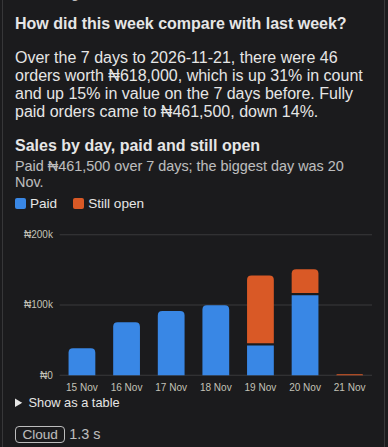
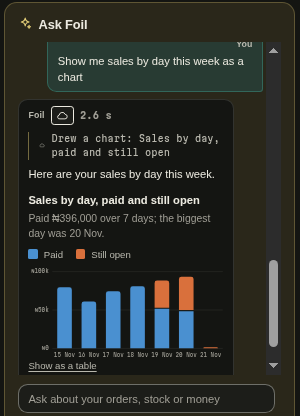
Check amounts in Ask Foil answers against the records
- An amount written wrongly for the market is put back when dropping
  one stray digit or fixing its grouping gives exactly one amount
  from the records; well-formed and ambiguous amounts stay as written
- Retake the cloud chart screenshot and update its caption

diff --git a/src/ledger/snapshot.ts b/src/ledger/snapshot.ts
@@ -2,7 +2,8 @@ import { shopWords } from '../config/marketWords'
 import { itemState } from '../capture/drop'
 import { deliveryOptions, type ShopRules } from '../capture/shopRules'
 import { leftOf } from '../capture/stock'
-import { formatMoney } from '../verify/money'
+import { market, type Market } from '../config/market'
+import { formatMoney, parseMoney } from '../verify/money'
 import type { Credit } from '../verify/types'
 import { balanceKobo, dueKobo } from './ledger'
 import type { ChatNote, Drop, Order, Product, Settlement } from './types'
@@ -250,6 +251,71 @@ export function deviceAskPrompt(
   ].join('\n\n')
   // Too long for the device: the caller asks the cloud instead.
   return prompt.length > DEVICE_ASK_MAX_CHARS ? null : prompt
+}
+
+// The amounts written in a text, with where each number starts and ends.
+function amountsIn(
+  text: string,
+  m: Market,
+): { start: number; end: number; number: string; kobo: number | null }[] {
+  const symbol = m.currency.symbol.replace(/[.*+?^${}()|[\]\\]/g, '\\$&')
+  const re = new RegExp(`${symbol}\\s?(\\d[\\d.,]*\\d|\\d)`, 'g')
+  return [...text.matchAll(re)].map((hit) => {
+    const number = hit[1]!
+    const end = hit.index + hit[0].length
+    return {
+      start: end - number.length,
+      end,
+      number,
+      kobo: parseMoney(`${m.currency.symbol}${number}`, m),
+    }
+  })
+}
+
+// Small models sometimes slip a digit when copying an amount ("₦396,000"
+// written "₦396,0000"). An amount whose digits are grouped wrongly for the
+// market, and which becomes exactly one amount from the records the model was
+// given once a single stray digit is dropped or its grouping is fixed, is
+// put back as that amount.
+// Well-formed amounts are left alone, since the model may have worked them
+// out itself, and nothing is changed without one clear match.
+export function repairAmounts(
+  answer: string,
+  records: string,
+  m: Market = market(),
+): string {
+  const known = new Map<string, number>()
+  for (const a of amountsIn(records, m)) {
+    if (a.kobo !== null && a.kobo % 100 === 0) {
+      known.set(String(a.kobo / 100), a.kobo)
+    }
+  }
+  let out = ''
+  let from = 0
+  for (const a of amountsIn(answer, m)) {
+    const wellFormed =
+      a.kobo !== null &&
+      formatMoney(a.kobo, m).endsWith(a.number) &&
+      !/[.,]\d{4,}/.test(a.number)
+    if (wellFormed) continue
+    const digits = a.number.replace(/\D/g, '')
+    // The same digits with the comma in the wrong place count as a match
+    // too, so "₦47,8000" is left alone when both ₦47,800 and ₦478,000 are
+    // in the records.
+    const matches = new Set<number>()
+    const regrouped = known.get(digits)
+    if (regrouped !== undefined) matches.add(regrouped)
+    for (let i = 0; i < digits.length; i++) {
+      const kobo = known.get(digits.slice(0, i) + digits.slice(i + 1))
+      if (kobo !== undefined) matches.add(kobo)
+    }
+    if (matches.size !== 1) continue
+    // Only the number is swapped; the symbol stays as the model wrote it.
+    out += answer.slice(from, a.start)
+    out += formatMoney([...matches][0]!, m).replace(/^\D+/, '')
+    from = a.end
+  }
+  return out + answer.slice(from)
 }
 
 // Small on-device models sometimes merge neighbouring numbers when copying a

diff --git a/src/ledger/snapshot.test.ts b/src/ledger/snapshot.test.ts
@@ -1,5 +1,6 @@
 import { describe, expect, it } from 'vitest'
 import { EMPTY_RULES } from '../capture/shopRules'
+import { MARKETS } from '../config/market'
 import { newOrder } from './ledger'
 import {
   answerLines,
@@ -10,6 +11,7 @@ import {
   openOrderLines,
   stockLines,
   waitingLine,
+  repairAmounts,
 } from './snapshot'
 import type { ChatNote, Order, Product } from './types'
 
@@ -174,5 +176,48 @@ describe('repairOrderNumbers', () => {
     expect(repairOrderNumbers('Order #71 and #999.', ['71'])).toBe(
       'Order #71 and #999.',
     )
+  })
+})
+
+describe('repairAmounts', () => {
+  const records =
+    'Fully paid ₦396,000 (up 10%). Worth ₦478,000. Money in ₦472,000.'
+  const ng = MARKETS.ng
+
+  it('drops a stray digit to give back the amount in the records', () => {
+    expect(
+      repairAmounts('Paid orders were ₦396,0000, up 10%.', records, ng),
+    ).toBe('Paid orders were ₦396,000, up 10%.')
+  })
+
+  it('leaves well-formed amounts alone, even ones worked out', () => {
+    const said = 'That is ₦18,000 more than last week, and ₦472,000 in all.'
+    expect(repairAmounts(said, records, ng)).toBe(said)
+  })
+
+  it('changes nothing without exactly one match', () => {
+    expect(repairAmounts('About ₦12,34567.', records, ng)).toBe(
+      'About ₦12,34567.',
+    )
+    expect(repairAmounts('₦47,8000', 'Worth ₦478,000 and ₦47,800.', ng)).toBe(
+      '₦47,8000',
+    )
+  })
+
+  it('follows each market’s way of writing numbers', () => {
+    expect(
+      repairAmounts('Paid ₹1,00,0000.', 'Paid ₹1,00,000.', MARKETS.in),
+    ).toBe('Paid ₹1,00,000.')
+    expect(repairAmounts('Pago R$ 3.9600.', 'Pago R$ 3.960.', MARKETS.br)).toBe(
+      'Pago R$ 3.960.',
+    )
+  })
+})
+
+describe('repairAmounts, grouping only', () => {
+  it('regroups digits that match one amount in the records', () => {
+    expect(
+      repairAmounts('In ₦4720,00 today.', 'Money in ₦472,000.', MARKETS.ng),
+    ).toBe('In ₦472,000 today.')
   })
 })

diff --git a/src/ui/AskCard.tsx b/src/ui/AskCard.tsx
@@ -28,6 +28,7 @@ import {
   businessText,
   deskInstructions,
   deviceAskPrompt,
+  repairAmounts,
   repairOrderNumbers,
 } from '../ledger/snapshot'
 import { lookupPreview, type DeskData, type Proposal } from '../ledger/tools'
@@ -221,12 +222,15 @@ export function AskCard(props: {
             ),
           ),
         )
-        // Order numbers are checked against the shop's real orders.
+        // Order numbers and amounts are checked against the shop's records.
         const answer = {
           ...read,
-          text: repairOrderNumbers(
-            read.text,
-            desk.orders.map((o) => o.code),
+          text: repairAmounts(
+            repairOrderNumbers(
+              read.text,
+              desk.orders.map((o) => o.code),
+            ),
+            facts,
           ),
         }
         setTurns((t) => t.map((x, i) => (i === at ? { ...x, answer } : x)))
@@ -269,7 +273,10 @@ export function AskCard(props: {
         }),
       )
       if (answer) {
-        setTurns((t) => t.map((x, i) => (i === at ? { ...x, answer } : x)))
+        const checked = { ...answer, text: repairAmounts(answer.text, facts) }
+        setTurns((t) =>
+          t.map((x, i) => (i === at ? { ...x, answer: checked } : x)),
+        )
       }
     } catch (e) {
       const error = cloudErrorText(e)

diff --git a/README.md b/README.md
@@ -180,7 +180,7 @@ The receipt picture can carry the shop's own look: its logo (with colours sugges
 - **Ask Foil:** a chat about the whole business ("which orders still need sending?", "what should I restock?", "how did this week compare with last?"). It is sent the shop's own facts, orders by number, items, stock, money and rules, never customers' names, phones or addresses. Answers can carry a chart. When Chrome's model is ready, each question is answered on the device and nothing is sent; **Ask the cloud instead** sends it after approval. Common answers, such as which orders are unpaid or ready to send, are worked out in code first, and order numbers in an on-device answer are checked against the real orders.
 - **Offline and power cuts:** records are saved on the device with strict durability, and the cloud books catch up when the connection returns.
 
-![A chat answer comparing this week with last week, with a stacked chart of paid and still-open sales by day, marked Cloud](docs/images/books-chat-chart.png)
+![A cloud answer to "Show me sales by day this week as a chart": a stacked chart of paid and still-open sales by day, marked Cloud](docs/images/books-chat-chart.png)
 
 ## 7. Hybrid inference, feature by feature
 
